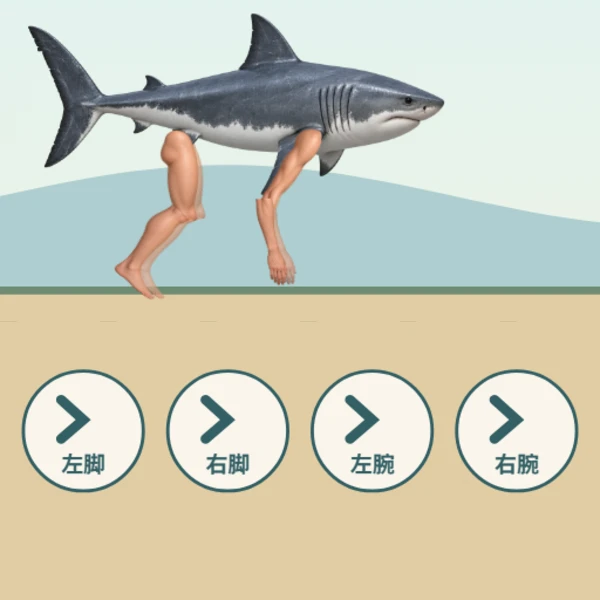
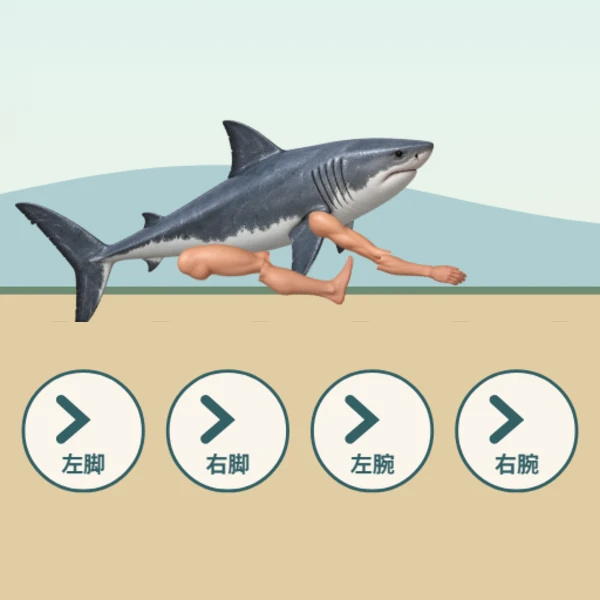
サメの前進と姿勢の補正を外し膝と肘だけを動かす物理に変更

Changed region(s): [[0.0, 0.0, 0.78, 0.54], [0.78, 0.33, 0.9, 0.36]]

diff --git a/games/_shark-walk/walk.js b/games/_shark-walk/walk.js
@@ -1,32 +1,51 @@
-/* 重力・関節・足裏の摩擦で進む、サメの歩行。座標は地面を高さ0とする。 */
+/* 四肢の長さと膝・肘の角度だけを保つ。胴体の姿勢や進行方向は制御しない。 */
 function SharkWalk() {
-  var points=[], bends={leftLeg:0,rightLeg:0,leftArm:0,rightArm:0}, pressed={leftLeg:false,rightLeg:false,leftArm:false,rightArm:false}, contacts=0;
+  var points=[], names=['leftLeg','rightLeg','leftArm','rightArm'];
+  var bends={},pressed={},contacts=0;
+  names.forEach(function(k){bends[k]=0;pressed[k]=false;});
   function point(x,y,m,r){var p={x:x,y:y,px:x,py:y,w:1/m,r:r};points.push(p);return p;}
   var rear=point(160,-141,5,27),front=point(285,-141,5,30);
+  // 背びれ側と腹側も地面に当たる。距離だけで形を保ち、向きは戻さない。
+  var back=point(222.5,-247,1,8),belly=point(222.5,-100,1,8);
+  var bodyLinks=[[rear,front],[rear,back],[front,back],[rear,belly],[front,belly],[back,belly]].map(function(pair){return{a:pair[0],b:pair[1],length:Math.hypot(pair[0].x-pair[1].x,pair[0].y-pair[1].y)};});
   var feet=[point(117,-6,1,6),point(126,-6,1,6)];
   var hands=[point(247,-6,.8,6),point(256,-6,.8,6)];
+  function knee(a,b,l,sign){var dx=b.x-a.x,dy=b.y-a.y,d=Math.hypot(dx,dy)||1,h=Math.sqrt(Math.max(0,l*l-d*d/4));return{x:(a.x+b.x)/2+dy/d*h*sign,y:(a.y+b.y)/2-dx/d*h*sign};}
+  function wrap(a){return Math.atan2(Math.sin(a),Math.cos(a));}
+  function angle(a,b,c){return wrap(Math.atan2(c.y-b.y,c.x-b.x)-Math.atan2(a.y-b.y,a.x-b.x));}
+  var joints=[],knees=[],elbows=[];
+  names.forEach(function(name,i){var a=i<2?rear:front,c=i<2?feet[i]:hands[i-2],length=i<2?76:74;
+    var at=knee(a,c,length,i<2?1:-1),b=point(at.x,at.y,.65,8);
+    (i<2?knees:elbows).push(b);joints.push({a:a,b:b,c:c,length:length,name:name,sign:Math.sign(angle(a,b,c))});
+  });
   function ground(x){return x<600?0:x<1100?-18*Math.sin((x-600)/500*Math.PI):x<1500?0:x<1950?-28*Math.sin((x-1500)/450*Math.PI):0;}
-  function distance(a,b,len,k){var dx=b.x-a.x,dy=b.y-a.y,d=Math.hypot(dx,dy)||1,q=(d-len)/d*k/(a.w+b.w);a.x+=dx*q*a.w;a.y+=dy*q*a.w;b.x-=dx*q*b.w;b.y-=dy*q*b.w;}
-  function motor(a,b,x,y,k){var dx=b.x-a.x-x,dy=b.y-a.y-y,q=k/(a.w+b.w);a.x+=dx*q*a.w;a.y+=dy*q*a.w;b.x-=dx*q*b.w;b.y-=dy*q*b.w;}
-  function set(group,value){if(group in pressed)pressed[group]=!!value;}
+  function distance(a,b,len){var dx=b.x-a.x,dy=b.y-a.y,d=Math.hypot(dx,dy)||1,q=(d-len)/d/(a.w+b.w);a.x+=dx*q*a.w;a.y+=dy*q*a.w;b.x-=dx*q*b.w;b.y-=dy*q*b.w;}
+  // 三点の角度への力は、関節を含む三点へ返す。肩と股関節の向きは自由。
+  function bend(j){
+    var a=j.a,b=j.b,c=j.c,ux=a.x-b.x,uy=a.y-b.y,vx=c.x-b.x,vy=c.y-b.y;
+    var u2=ux*ux+uy*uy,v2=vx*vx+vy*vy;if(u2<1||v2<1)return;
+    var ga={x:uy/u2,y:-ux/u2},gc={x:-vy/v2,y:vx/v2},gb={x:-ga.x-gc.x,y:-ga.y-gc.y};
+    var target=j.sign*(Math.PI-.18-bends[j.name]*2.1);
+    var error=wrap(angle(a,b,c)-target);
+    var weight=a.w*(ga.x*ga.x+ga.y*ga.y)+b.w*(gb.x*gb.x+gb.y*gb.y)+c.w*(gc.x*gc.x+gc.y*gc.y);
+    var q=-error*.12/weight;
+    [[a,ga],[b,gb],[c,gc]].forEach(function(pair){var p=pair[0],g=pair[1];p.x+=q*p.w*g.x;p.y+=q*p.w*g.y;});
+  }
+  function set(group,value){if(names.indexOf(group)!==-1)pressed[group]=!!value;}
   function update(dt){
     for(var sub=0;sub<2;sub++){
       var h=dt/2;
-      Object.keys(bends).forEach(function(k){var target=pressed[k]?1:0;bends[k]+=(target-bends[k])*Math.min(1,12*h);});
+      names.forEach(function(k){bends[k]+=((pressed[k]?1:0)-bends[k])*Math.min(1,12*h);});
       points.forEach(function(p){var vx=(p.x-p.px)*.997,vy=(p.y-p.py)*.997;p.px=p.x;p.py=p.y;p.x+=vx;p.y+=vy+900*h*h;});
       contacts=0;
-      for(var n=0;n<14;n++){
-        distance(rear,front,125,1);
-        // 姿勢を支える筋力。地面へ足を押し返した反力は胴体にも返る。
-        var angle=Math.atan2(front.y-rear.y,front.x-rear.x), c=Math.cos(angle),s=Math.sin(angle);
-        feet.forEach(function(f,i){var b=bends[i===0?"leftLeg":"rightLeg"],x=-43+80*b+i*9,y=135-75*b;motor(rear,f,x*c-y*s,x*s+y*c,.024);distance(rear,f,Math.hypot(x,y),.07);});
-        hands.forEach(function(f,i){var b=bends[i===0?"leftArm":"rightArm"],x=-38+78*b+i*9,y=135-82*b;motor(front,f,x*c-y*s,x*s+y*c,.022);distance(front,f,Math.hypot(x,y),.07);});
-        // 胴体の傾きを戻すばね。外力による揺れは残す。
-        var tilt=(front.y-rear.y)*.004;front.y-=tilt;rear.y+=tilt;
-        points.forEach(function(p){var g=ground(p.x)-p.r;if(p.y>g){p.y=g;if(n===13)contacts++;p.px=p.x-(p.x-p.px)*.12;p.py=p.y;}});
+      for(var n=0;n<18;n++){
+        joints.forEach(bend);
+        bodyLinks.forEach(function(link){distance(link.a,link.b,link.length);});
+        joints.forEach(function(j){distance(j.a,j.b,j.length);distance(j.b,j.c,j.length);});
+        points.forEach(function(p){var g=ground(p.x)-p.r;if(p.y>g){p.y=g;if(n===17)contacts++;p.px=p.x-(p.x-p.px)*.12;p.py=p.y;}});
       }
     }
   }
-  function knee(a,b,l,sign){var dx=b.x-a.x,dy=b.y-a.y,d=Math.hypot(dx,dy)||1,h=Math.sqrt(Math.max(0,l*l-d*d/4));return{x:(a.x+b.x)/2+dy/d*h*sign,y:(a.y+b.y)/2-dx/d*h*sign};}
-  return {rear:rear,front:front,feet:feet,hands:hands,points:points,ground:ground,knee:knee,set:set,update:update,now:function(){return{x:(rear.x+front.x)/2,y:rear.y,leftLeg:bends.leftLeg,rightLeg:bends.rightLeg,leftArm:bends.leftArm,rightArm:bends.rightArm,leftLegPressed:pressed.leftLeg,rightLegPressed:pressed.rightLeg,leftArmPressed:pressed.leftArm,rightArmPressed:pressed.rightArm,contacts:contacts,finite:points.every(function(p){return Number.isFinite(p.x)&&Number.isFinite(p.y);})};}};
+  function now(){var out={x:(rear.x+front.x)/2,y:rear.y,angle:Math.atan2(front.y-rear.y,front.x-rear.x),contacts:contacts,finite:points.every(function(p){return Number.isFinite(p.x)&&Number.isFinite(p.y);})};names.forEach(function(k){out[k]=bends[k];out[k+'Pressed']=pressed[k];});return out;}
+  return {rear:rear,front:front,feet:feet,hands:hands,knees:knees,elbows:elbows,points:points,joints:joints,ground:ground,set:set,update:update,now:now};
 }

diff --git a/games/_tools/tests/shark-walk.js b/games/_tools/tests/shark-walk.js
@@ -7,7 +7,7 @@ function step(n){g.step(n);g.drawn.length=0;assert(now().finite);}
 function pointer(type,id,group){const b=now().controls.find(b=>b.id===group);g.wrap.fire(type,{pointerId:id,clientX:b.x,clientY:b.y,button:0,isPrimary:id===1,preventDefault(){}});}
 g.step(180);assert.equal(now().state,'intro');
 g.press(' ');assert.equal(now().state,'play');assert(!now().leftLegPressed&&!now().leftArmPressed);
-step(600);assert(Math.abs(now().x-222.5)<10,'放置しても前進し続けない');assert(now().contacts>0);
+step(600);assert(now().state==='play','放置してもゴール扱いにしない');assert(now().contacts>0);
 g.tap(270,200);assert(!now().leftLegPressed&&!now().leftArmPressed,'ボタン外では曲がらない');
 pointer('pointerdown',1,'leftLeg');step(30);assert(now().leftLeg>.95&&now().leftArm<.01,'脚だけ曲がる');
 pointer('pointerdown',2,'leftArm');step(30);assert(now().leftLeg>.95&&now().leftArm>.95,'二本指で同時に曲がる');
@@ -21,10 +21,8 @@ for(const group of groups){pointer('pointerdown',1,group);step(30);for(const oth
 groups.forEach((group,i)=>pointer('pointerdown',i+1,group));step(30);assert(groups.every(group=>now()[group]>.95),'四本同時に保持できる');
 groups.forEach((group,i)=>{pointer('pointerup',i+1,group);assert(groups.every((other,j)=>now()[other+'Pressed']===(j>i)),'一本ずつ独立して離せる');});
 g.esc();
-let frames=0;
-while(now().state==='play'&&frames<7200){g.key('a');g.key('s');step(21);g.key('k');g.key('l');step(21);g.key('a',true);g.key('s',true);step(21);g.key('k',true);g.key('l',true);step(21);frames+=84;}
-assert.equal(now().state,'result','脚と腕を曲げ伸ばししてゴールへ着く');assert(now().x>=2500);
-console.log('交互に曲げ伸ばしして到着：'+now().score+'秒');
+// 前進できるようには調整しない。操作中の安定性だけを見る。
+for(let i=0;i<20;i++){g.key('a');g.key('s');step(21);g.key('k');g.key('l');step(21);g.key('a',true);g.key('s',true);step(21);g.key('k',true);g.key('l',true);step(21);}
 g.esc();assert.equal(now().state,'play');assert(!now().leftLegPressed&&!now().leftArmPressed);
 load.SHAPES.forEach(v=>{g.view(v[0],v[1]);step(20);let b=now().controls;assert.equal(b.length,4);for(let i=1;i<4;i++){assert(b[i].x-b[i-1].x>63);assert(b[i].x-b[i-1].x>b[i].r+b[i-1].r);}assert(b.every(b=>b.y+b.r<now().H));});
 // 空中では筋力がサメ全体を横へ加速させない。地面の反力だけで進む。
@@ -32,5 +30,12 @@ const scope={};vm.createContext(scope);vm.runInContext(fs.readFileSync('games/_s
 const air=scope.SharkWalk();air.points.forEach(p=>{p.y-=1000;p.py-=1000;});
 function center(w){return w.points.reduce((v,p)=>v+p.x/p.w,0)/w.points.reduce((v,p)=>v+1/p.w,0);}
 const x=center(air);for(let i=0;i<30;i++){air.set('leftLeg',i<15);air.set('leftArm',i>10);air.update(1/60);}assert(Math.abs(center(air)-x)<.001,'空中で横向きの力を足さない');
-for(const group of ['leftLeg','rightLeg','leftArm','rightArm','both']){const w=scope.SharkWalk();groups.forEach(k=>w.set(k,group==='both'||group===k));for(let i=0;i<1200;i++)w.update(1/60);const before=w.now().x;for(let i=0;i<600;i++)w.update(1/60);assert(Math.abs(w.now().x-before)<2,'押しっぱなしで自動走行しない');}
-console.log('開始・独立操作・二本指・取消・混合入力・到着・再挑戦・画面6種類・空中の力・長押し：確認済み');
+// 頭が後ろ向きのまま落としても、正面へ自動復帰しない。
+const inverted=scope.SharkWalk();inverted.points.forEach(p=>{p.x=445-p.x;p.px=p.x;p.y=-800-p.y;p.py=p.y;});
+for(let i=0;i<900;i++)inverted.update(1/60);
+assert(inverted.front.x<inverted.rear.x,'ひっくり返った姿勢を強制的に戻さない');
+const reverse=scope.SharkWalk();let minX=222.5,maxAngle=0;
+for(let i=0;i<2400;i++){groups.forEach((k,j)=>reverse.set(k,(i+j*13)%90<45));reverse.update(1/60);assert(reverse.now().finite);minX=Math.min(minX,reverse.now().x);maxAngle=Math.max(maxAngle,Math.abs(reverse.now().angle));}
+assert(minX<172.5,'後退を許す');assert(maxAngle>Math.PI/2,'胴体の反転を許す');
+console.log('後退の最小位置：'+minX.toFixed(1)+'、最大の傾き：'+(maxAngle*180/Math.PI).toFixed(1)+'度');
+console.log('四肢独立・複数指・取消・画面6種類・空中の力・後退・反転：確認済み');

diff --git a/games/_shark-walk/index.html b/games/_shark-walk/index.html
@@ -154,7 +154,7 @@
     if (state !== S.PLAY) return;
     T += dt;
 
-    accumulator+=dt;while(accumulator>=1/60){walker.update(1/60);accumulator-=1/60;} camera=Math.max(0,walker.now().x-235);
+    accumulator+=dt;while(accumulator>=1/60){walker.update(1/60);accumulator-=1/60;} camera=walker.now().x-222.5;
     score=Math.round(T*10)/10;
     if(walker.now().x>=2500){state=S.RESULT;clearInput();tone(880,.3,.1); }
   }
@@ -237,8 +237,8 @@
       ctx.save();ctx.translate(a.x,a.y);ctx.rotate(Math.atan2(dy,dx)-Math.PI/2);
       ctx.drawImage(img,sx,sy,sw,sh,-width/2,-(top||0),width,len+(top||0)+3);ctx.restore();
     }
-    function leg(i){var a=walker.rear,b=walker.feet[i],k=walker.knee(a,b,76,1);piece(limbs,140,20,300,710,a,k,37,5);piece(limbs,140,700,410,810,k,b,51,3);}
-    function arm(i){var a=walker.front,b=walker.hands[i],k=walker.knee(a,b,74,-1);piece(limbs,655,65,285,625,a,k,31,5);piece(limbs,705,650,265,735,k,b,29,3);}
+    function leg(i){var a=walker.rear,b=walker.feet[i],k=walker.knees[i];piece(limbs,140,20,300,710,a,k,37,5);piece(limbs,140,700,410,810,k,b,51,3);}
+    function arm(i){var a=walker.front,b=walker.hands[i],k=walker.elbows[i];piece(limbs,655,65,285,625,a,k,31,5);piece(limbs,705,650,265,735,k,b,29,3);}
     ctx.globalAlpha=.7;leg(1);arm(1);ctx.globalAlpha=1;
     var r=walker.rear,f=walker.front;ctx.save();ctx.translate((r.x+f.x)/2,(r.y+f.y)/2-27);ctx.rotate(Math.atan2(f.y-r.y,f.x-r.x));if(shark.complete&&shark.naturalWidth)ctx.drawImage(shark,-200,-95,380,190);ctx.restore();
     leg(0);arm(0);ctx.restore();

diff --git a/games/_shark-walk/素材.md b/games/_shark-walk/素材.md
@@ -20,4 +20,4 @@ Use case: stylized-concept. A game sprite sheet of two isolated human limb game 
 
 `node games/_tools/tests/shark-walk.js`
 
-重力、胴体の距離制約、筋力に相当するばね、足裏の摩擦を計算する。横方向の自動加速は加えない。左脚・右脚・左腕・右腕の4ボタンで、それぞれ独立して曲げる。離すと伸ばす。複数の指で同時操作でき、キーはA・S・K・Lが順に左脚・右脚・左腕・右腕。矢印キーの左・下・上・右も同じ順で対応し、スペースは左脚、Enterは右腕。自動的な踏み替えは行わず、手足の接地と曲げ伸ばしの反力で地形の終点2500へ進む。画面の更新間隔にかかわらず1/60秒ずつ計算する。
+重力、胴体と四肢の長さ、膝・肘の角度、接地の摩擦を計算する。肩と股関節は自由に回る。手足の移動先を指定する処理と、胴体を水平に戻す処理は削除した。背びれ側と腹側も接地し、後退や転倒を許す。左脚・右脚・左腕・右腕の4ボタンで、それぞれ独立して曲げる。離すと伸ばす。複数の指で同時操作でき、キーはA・S・K・Lが順に左脚・右脚・左腕・右腕。矢印キーの左・下・上・右も同じ順で対応し、スペースは左脚、Enterは右腕。ボタンは膝・肘を約170度から約49度へ曲げる角度だけを変える。地形の終点は2500のまま残し、到達しやすくする補助や自動起き上がりは入れない。カメラは後退にも追従する。画面の更新間隔にかかわらず1/60秒ずつ計算する。
